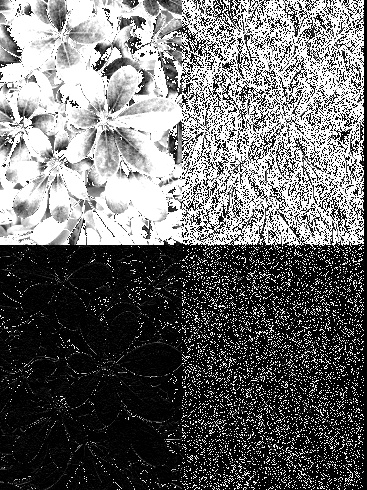
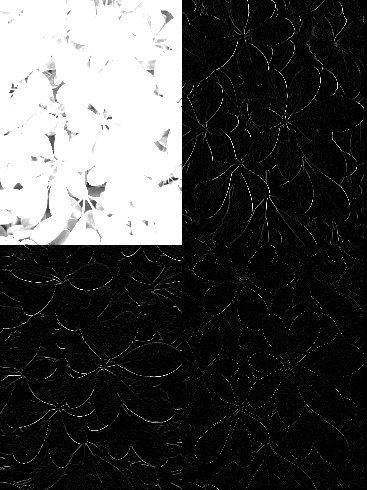
Fix uint8 overflow problem

diff --git a/HaarTransform/HaarTransform.py b/HaarTransform/HaarTransform.py
@@ -4,6 +4,7 @@ import cv2
 import numpy as np
 
 def HaarTransform2D(img):
+    img = np.float32(img)
     rows, columns = img.shape
     horizontalTransform = np.zeros([rows,columns])
     # for left and right region
@@ -42,6 +43,7 @@ def HaarTransform2D(img):
     return verticalTransform
 
 def inverseHaarTransform2D(img):
+    img = np.float32(img)
     rows, columns = img.shape
     leftSectionEnd = (columns - columns % 4)/2 - 1
     topSectionEnd = int(rows)/2 - 1
@@ -57,9 +59,9 @@ def inverseHaarTransform2D(img):
             A = np.average([W, X, Y, Z])
 
             result[height*2][width*2] = A
-            result[height * 2][width * 2 + 1] = W - A + X - A
-            result[height * 2 + 1][width * 2] = W - A + Y - A
-            result[height * 2 + 1][width * 2 + 1] = W - A + Z - A
+            result[height * 2][width * 2 + 1] = (W + X - 2 * A)/2
+            result[height * 2 + 1][width * 2] = (W + Y - 2 * A)/2
+            result[height * 2 + 1][width * 2 + 1] = (W + Z - 2 * A)/2
     return result
 
 image = cv2.imread(os.getcwd() + "/Input/flower.jpg",cv2.CV_LOAD_IMAGE_GRAYSCALE)
@@ -67,3 +69,4 @@ res = HaarTransform2D(image)
 cv2.imwrite(os.getcwd() + "/Results/haarTransform.jpg", res)
 ires = inverseHaarTransform2D(res)
 cv2.imwrite(os.getcwd() + "/Results/inverseHaarTransform.jpg", ires)
+cv2.imwrite(os.getcwd() + "/Results/originalBW.jpg", image)
